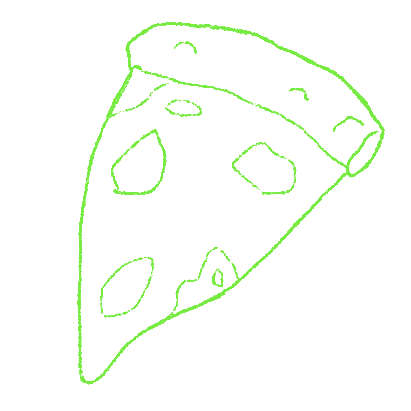
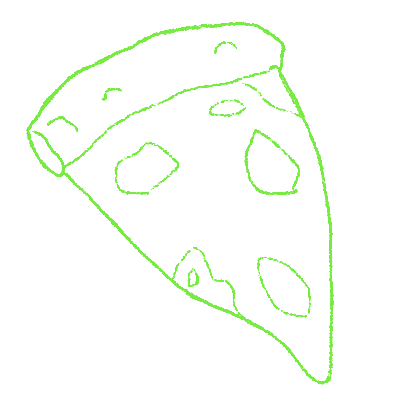
last push in god we trust

diff --git a/pages/about.html b/pages/about.html
@@ -86,6 +86,8 @@
               and
               that’s why they are the main focus of this research.”
             </p>
+
+            <img src="assets/imgs/patatine.png" style="position: absolute; width: 250px; left: 73vw; top: 140px; z-index: -1; transform: rotate(20deg);">
           </div>
         </div>
         <div class="newFooter">
@@ -137,6 +139,10 @@
       <div class="slide">
         <div class="flex-row ab">
           <div class="aboutMain">
+            <img src="assets/imgs/hamburger.png" style="position: absolute; width: 230px; left: 175vw; top: 140px; z-index: -1; transform: rotate(10deg);">
+            <img src="assets/imgs/pizza.png" style="position: absolute; width: 230px; left: 101vw; top: 67vh; z-index: -1; transform: rotate(-10deg);">
+
+
             <p class="slideP">
               This archive allows you to <b>explore</b> different kinds of green storytelling
               made by fast food companies nowadays and the common patterns behind them.
